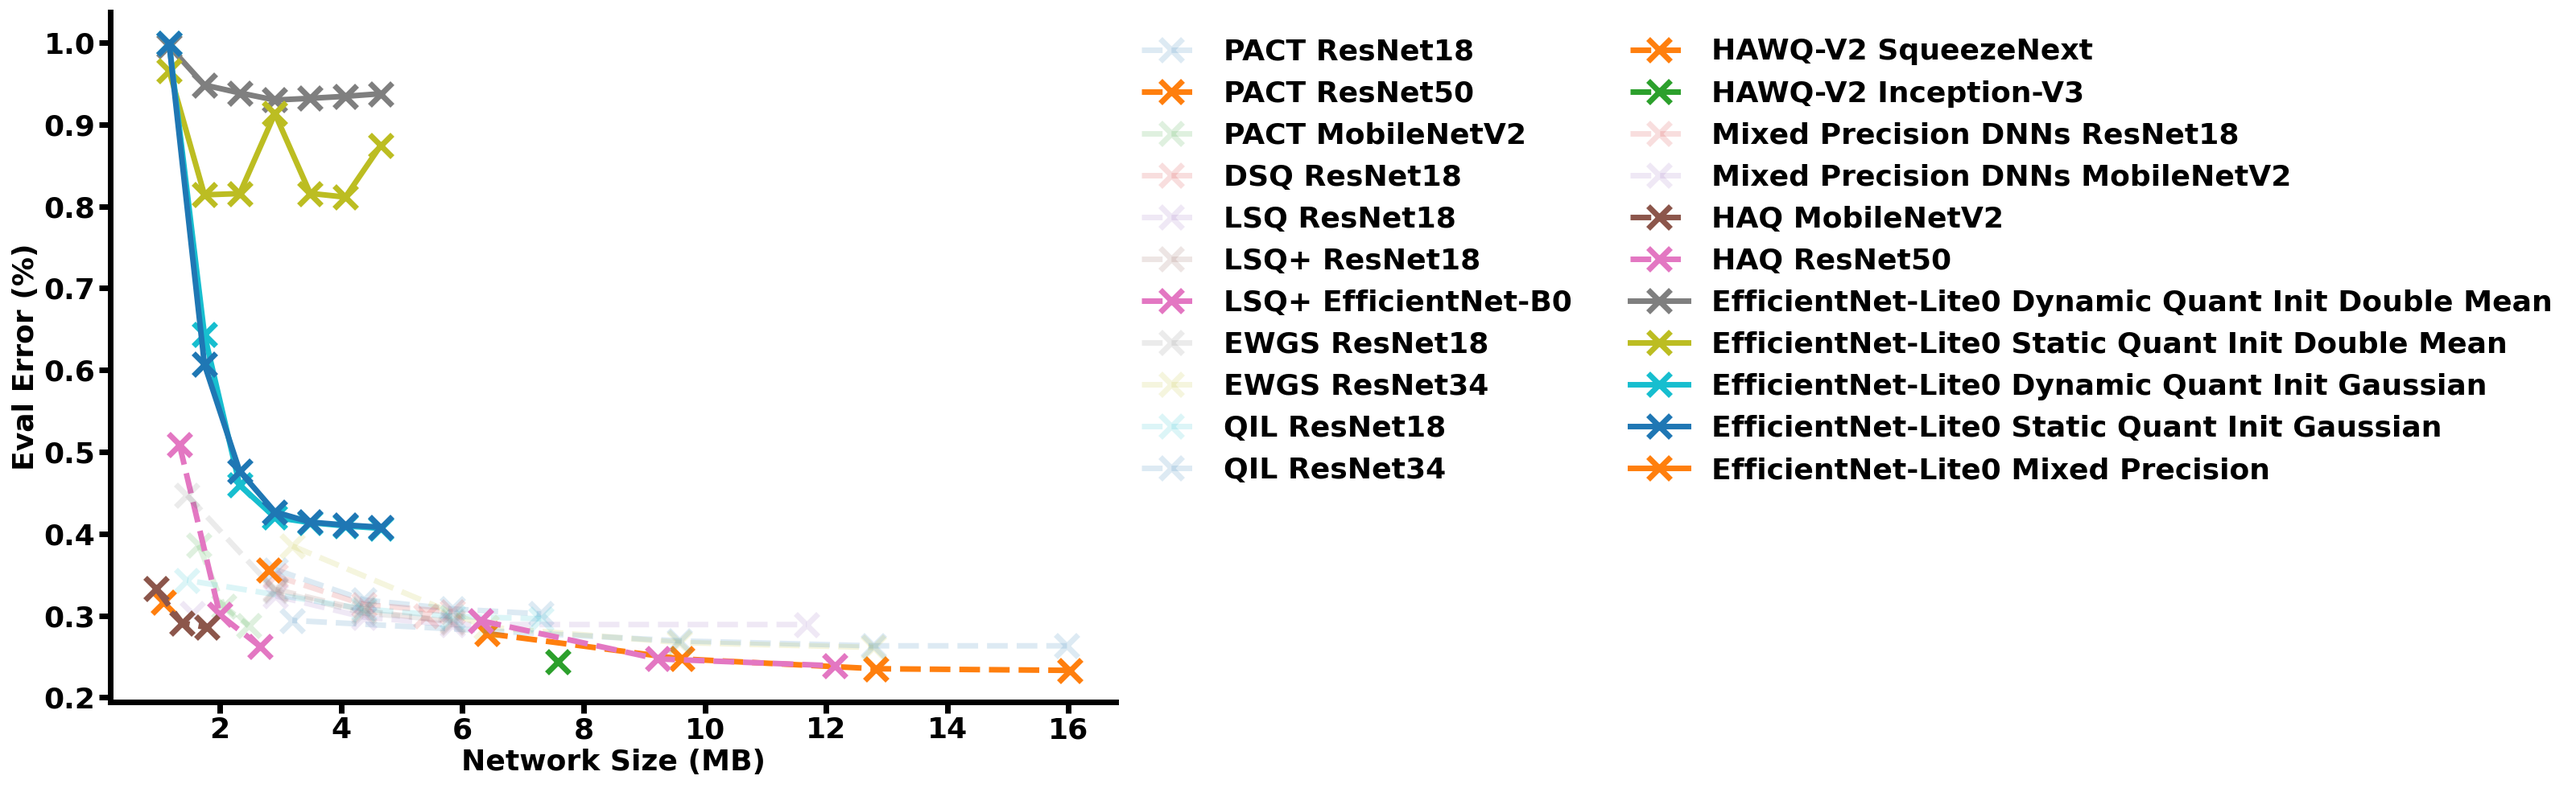
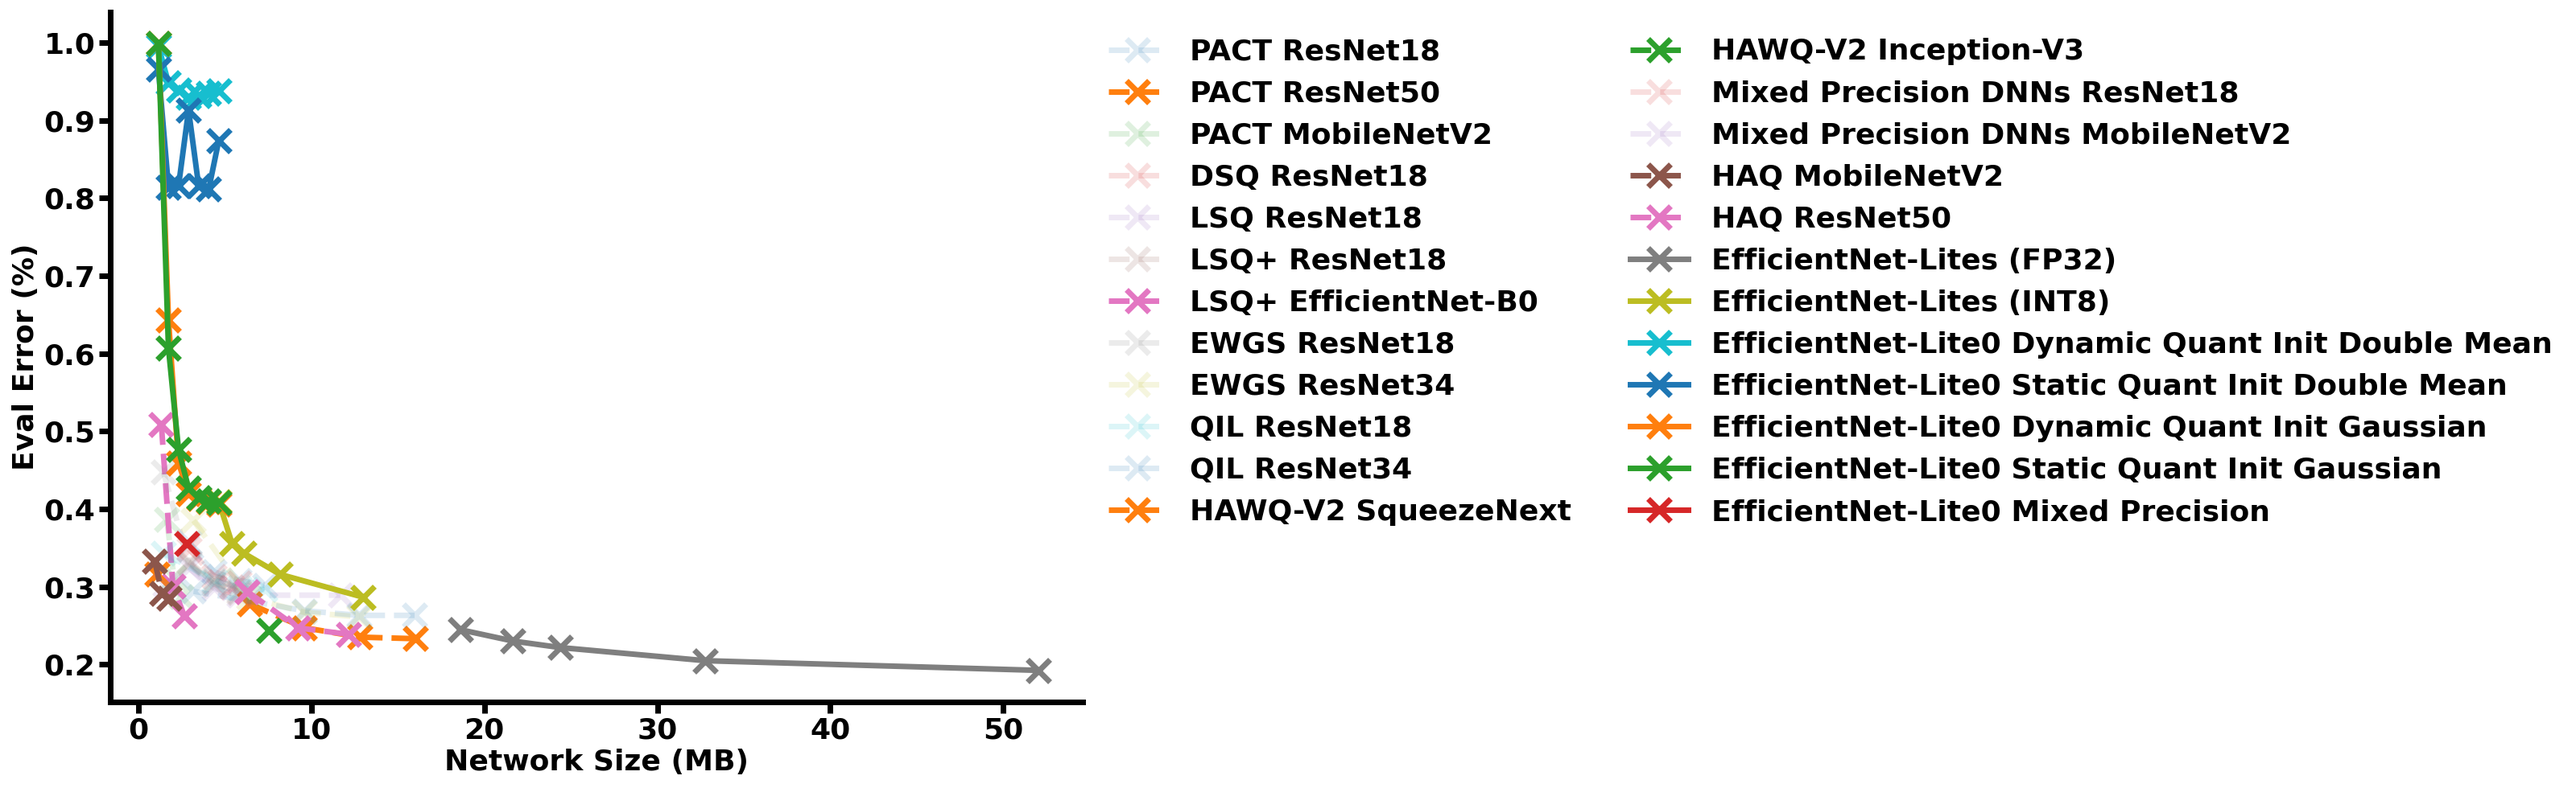
normal - figure

diff --git a/examples/efficientnet/visualization.py b/examples/efficientnet/visualization.py
@@ -212,6 +212,30 @@ enet0_dynamic_init_double_cos_ewgs = {
 # New Sweeps after dynamic correction
 #
 
+
+enets_fp32_t2 = {
+  4652008: 'oIBswEoqTme2oLlkkhx4Xw',
+  5416680: 'lHDJHMe2RamzzWwF4DF1hQ',
+  6092072: 'RiESL4q5QGuzCO66fYZ70Q',
+  8197096: 'LvwDTyJbRwKlvE77mBtWhw',
+  13006568: 'rdXGZbqPTyuOem2n2s7K0Q',
+  'params': 32,
+  'label': 'EfficientNet-Lites (FP32)',
+}
+
+
+enets_int8_t2 = {
+  4652008: 'NAxjD6ydQDq25NdJ7RQauA',
+  5416680: 'b1kq2yDsRrSoQORKAoiwHQ',
+  6092072: 'PpcD8wrzRga4S5Qg3RxKfg',
+  8197096: 'EyXpX0NbTnqvQt88F9JdSg',
+  13006568: 'ZjKyJ1nlSqqtGivBytyVdg',
+  'params': 8,
+  'label': 'EfficientNet-Lites (INT8)',
+}
+
+
+
 enet0_dynamic_init_double_mean_t2 = {
   2: 'GHq9K5XuQNyxqD6GGlcPQg',
   3: 'brXMuvyRS1W22FR24KaCXA',
@@ -487,6 +511,10 @@ def plot_comparison(name):
     ax.plot(competitor_data['size_mb'], competitor_data['eval_err'], label = competitor_data['name'], marker='x', ms=20, markeredgewidth=5, linewidth=5, alpha=competitor_data['alpha'], linestyle='--')
 
   # Our own.
+  plot_line(ax, enets_fp32_t2)
+  plot_line(ax, enets_int8_t2)
+
+
   plot_line(ax, enet0_dynamic_init_double_mean_t2)
   plot_line(ax, enet0_static_init_double_mean_t2)
   plot_line(ax, enet0_dynamic_init_gaussian_t2)
